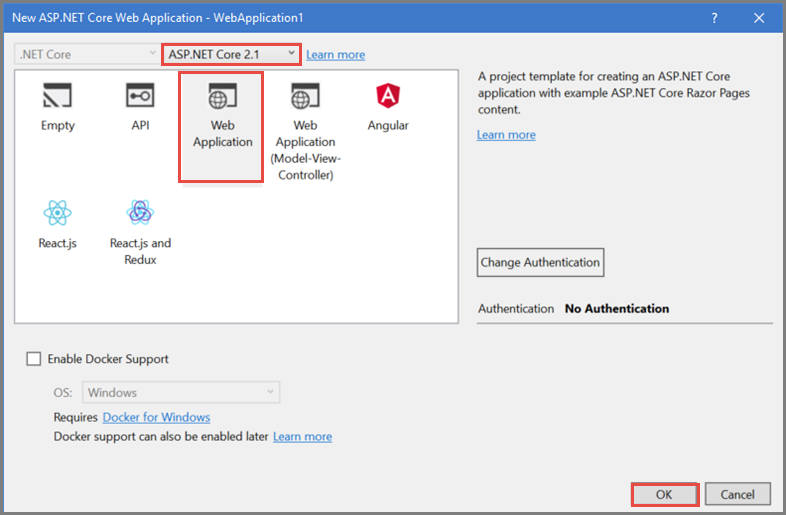
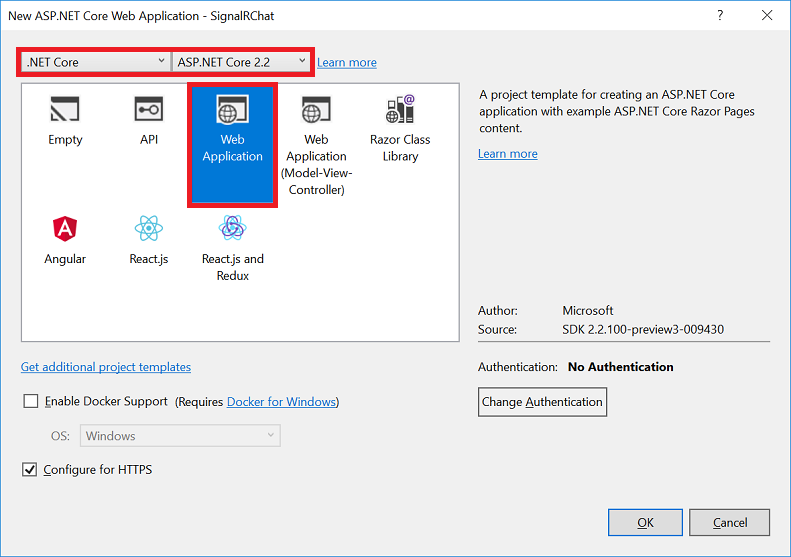
Update SignalR tutorials to 2.2 (#9760)

Changed region(s): [[0.0, 0.0, 1.0, 1.0]]

diff --git a/aspnetcore/tutorials/signalr-typescript-webpack.md b/aspnetcore/tutorials/signalr-typescript-webpack.md
@@ -2,10 +2,10 @@
 title: Use ASP.NET Core SignalR with TypeScript and Webpack
 author: ssougnez
 description: In this tutorial, you configure Webpack to bundle and build an ASP.NET Core SignalR web app whose client is written in TypeScript.
-monikerRange: '>= aspnetcore-2.1'
+monikerRange: '>= aspnetcore-2.2'
 ms.author: scaddie
 ms.custom: mvc
-ms.date: 06/29/2018
+ms.date: 11/30/2018
 uid: tutorials/signalr-typescript-webpack
 ---
 # Use ASP.NET Core SignalR with TypeScript and Webpack
@@ -25,22 +25,7 @@ In this tutorial, you learn how to:
 
 [View or download sample code](https://github.com/aspnet/Docs/tree/master/aspnetcore/tutorials/signalr-typescript-webpack/sample) ([how to download](xref:index#how-to-download-a-sample))
 
-## Prerequisites
-
-Install the following software:
-
-# [Visual Studio](#tab/visual-studio)
-
-* [.NET Core SDK 2.1 or later](https://www.microsoft.com/net/download/all)
-* [Node.js](https://nodejs.org/) with [npm](https://www.npmjs.com/)
-* [Visual Studio 2017](https://www.visualstudio.com/downloads/) version 15.7.3 or later with the **ASP.NET and web development** workload
-
-# [.NET Core CLI](#tab/netcore-cli)
-
-* [.NET Core SDK 2.1 or later](https://www.microsoft.com/net/download/all)
-* [Node.js](https://nodejs.org/) with [npm](https://www.npmjs.com/)
-
----
+[!INCLUDE [Prerequisites](~/includes/net-core-prereqs-vs-vsc-2.2.md)]
 
 ## Create the ASP.NET Core web app
 
@@ -49,17 +34,17 @@ Install the following software:
 Configure Visual Studio to look for npm in the *PATH* environment variable. By default, Visual Studio uses the version of npm found in its installation directory. Follow these instructions in Visual Studio:
 
 1. Navigate to **Tools** > **Options** > **Projects and solutions** > **Web Package Management** > **External Web Tools**.
-1. Select the *$(PATH)* entry from the list. Click the up arrow to move the entry to the second position in the list. As an aside, the first entry refers to the project's local packages.
+1. Select the *$(PATH)* entry from the list. Click the up arrow to move the entry to the second position in the list.
 
     ![Visual Studio Configuration](signalr-typescript-webpack/_static/signalr-configure-path-visual-studio.png)
 
 Visual Studio configuration is completed. It's time to create the project.
 
 1. Use the **File** > **New** > **Project** menu option and choose the **ASP.NET Core Web Application** template.
-1. Name the project *SignalRWebPack*, and click the **OK** button.
-1. Select *.NET Core* from the target framework drop-down, and select *ASP.NET Core 2.1* from the framework selector drop-down. Select the **Empty** template, and click the **OK** button.
+1. Name the project *SignalRWebPack*, and select **OK**.
+1. Select *.NET Core* from the target framework drop-down, and select *ASP.NET Core 2.2* from the framework selector drop-down. Select the **Empty** template, and select **OK**.
 
-# [.NET Core CLI](#tab/netcore-cli)
+# [Visual Studio Code](#tab/visual-studio-code)
 
 Run the following command in the **Integrated Terminal**:
 
@@ -232,7 +217,7 @@ Confirm that the app works with the following steps.
 
 1. Choose either browser, type something in the **Message** text box, and click the **Send** button. The unique user name and message are displayed on both pages instantly.
 
-# [.NET Core CLI](#tab/netcore-cli)
+# [Visual Studio Code](#tab/visual-studio-code)
 
 1. Run Webpack in *release* mode by executing the following command in the project root:
 

diff --git a/aspnetcore/tutorials/signalr.md b/aspnetcore/tutorials/signalr.md
@@ -5,7 +5,7 @@ description: In this tutorial, you create a chat app that uses ASP.NET Core Sign
 monikerRange: '>= aspnetcore-2.1'
 ms.author: tdykstra
 ms.custom: mvc
-ms.date: 11/13/2018
+ms.date: 11/30/2018
 uid: tutorials/signalr
 
 # Customer intent: As a developer, I want to get a quick proof-of-concept app running, so I can get a practical introduction to ASP.NET Core SignalR.
@@ -31,25 +31,8 @@ At the end, you'll have a working chat app:
 > [!NOTE]
 > We’re testing the usability of a proposed new structure for the ASP.NET Core table of contents.  If you have a few minutes to try an exercise of finding 7 different topics in the current or proposed table of contents, please [click here to participate in the study](https://dpk4xbh5.optimalworkshop.com/treejack/rps16hd5).
 
-## Prerequisites
 
-# [Visual Studio](#tab/visual-studio)
-
-* [Visual Studio 2017 version 15.8 or later](https://www.visualstudio.com/downloads/) with the **ASP.NET and web development** workload
-* [.NET Core SDK 2.1 or later](https://www.microsoft.com/net/download/all)
-
-# [Visual Studio Code](#tab/visual-studio-code)
-
-* [Visual Studio Code](https://code.visualstudio.com/download)
-* [.NET Core SDK 2.1 or later](https://www.microsoft.com/net/download/all)
-* [C# for Visual Studio Code](https://marketplace.visualstudio.com/items?itemName=ms-vscode.csharp)
-
-# [Visual Studio for Mac](#tab/visual-studio-mac)
-
-* [Visual Studio for Mac version 7.5.4 or later](https://www.visualstudio.com/downloads/)
-* [.NET Core SDK 2.1 or later](https://www.microsoft.com/net/download/all) (included in the Visual Studio install)
-
----
+[!INCLUDE [|Prerequisites](~/includes/net-core-prereqs-all-2.2.md)]
 
 ## Create a web project
 
@@ -63,7 +46,7 @@ At the end, you'll have a working chat app:
 
 * Select **Web Application** to create a project that uses Razor Pages.
 
-* Select a target framework of **.NET Core**, select **ASP.NET Core 2.1**, and click **OK**.
+* Select a target framework of **.NET Core**, select **ASP.NET Core 2.2**, and click **OK**.
 
   ![New Project dialog in Visual Studio](signalr/_static/signalr-new-project-choose-type.png)
 

diff --git a/aspnetcore/signalr/javascript-client.md b/aspnetcore/signalr/javascript-client.md
@@ -107,7 +107,9 @@ A real-world implementation would use an exponential back-off or retry a specifi
 ## Additional resources
 
 * [JavaScript API reference](/javascript/api/?view=signalr-js-latest)
+* [JavaScript tutorial](xref:tutorials/signalr)
+* [WebPack and TypeScript tutorial](xref:tutorials/signalr-typescript-webpack)
 * [Hubs](xref:signalr/hubs)
 * [.NET client](xref:signalr/dotnet-client)
 * [Publish to Azure](xref:signalr/publish-to-azure-web-app)
-* [Enable Cross-Origin Requests (CORS) in ASP.NET Core](xref:security/cors)
+* [Cross-Origin Requests (CORS)](xref:security/cors)

diff --git a/aspnetcore/toc.md b/aspnetcore/toc.md
@@ -197,7 +197,6 @@
 ### [Java API reference](/java/api/com.microsoft.signalr?view=aspnet-signalr-java)
 ### [JavaScript client](xref:signalr/javascript-client)
 ### [JavaScript API reference](/javascript/api/?view=signalr-js-latest)
-### [WebPack and TypeScript](xref:tutorials/signalr-typescript-webpack)
 ## Hosting and scaling
 ### [Overview](xref:signalr/scale)
 ### [Azure SignalR Service](/azure/azure-signalr/signalr-overview)
